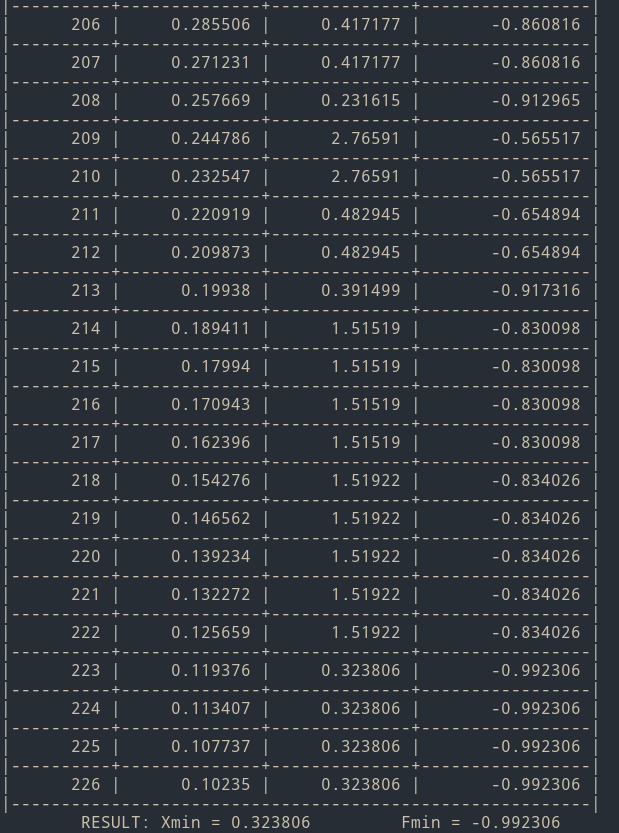
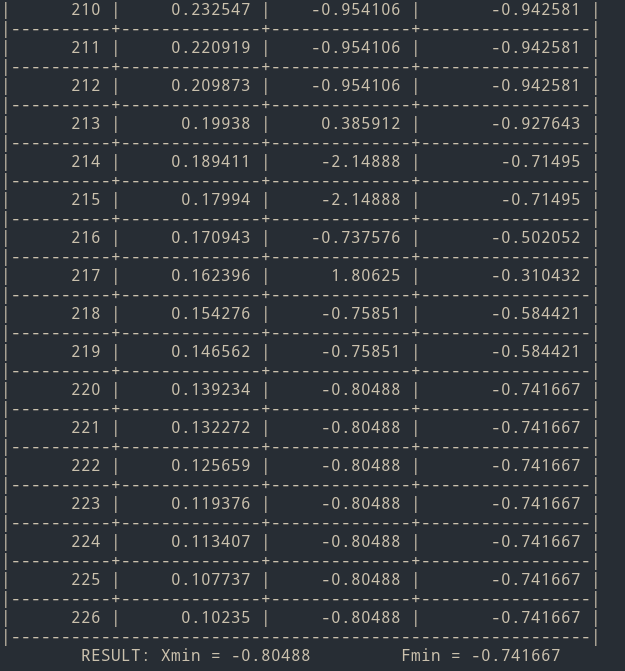
fixed screenshots

Changed region(s): [[0.0307, 0.0, 0.9822, 1.0]]

diff --git a/README.md b/README.md
@@ -12,5 +12,5 @@
 Реализация работы программы находится в следующих файлах: demo.cpp, annealing.cpp.
 Результат работы программы приведен на скриншотах.
 
-![lab03_unomodal_print](screenshots/1.jpg)
-![lab03_multimodal_print](screenshots/1.jpg)
+![lab03_unomodal_print](screenshots/1.png)
+![lab03_multimodal_print](screenshots/2.png)
